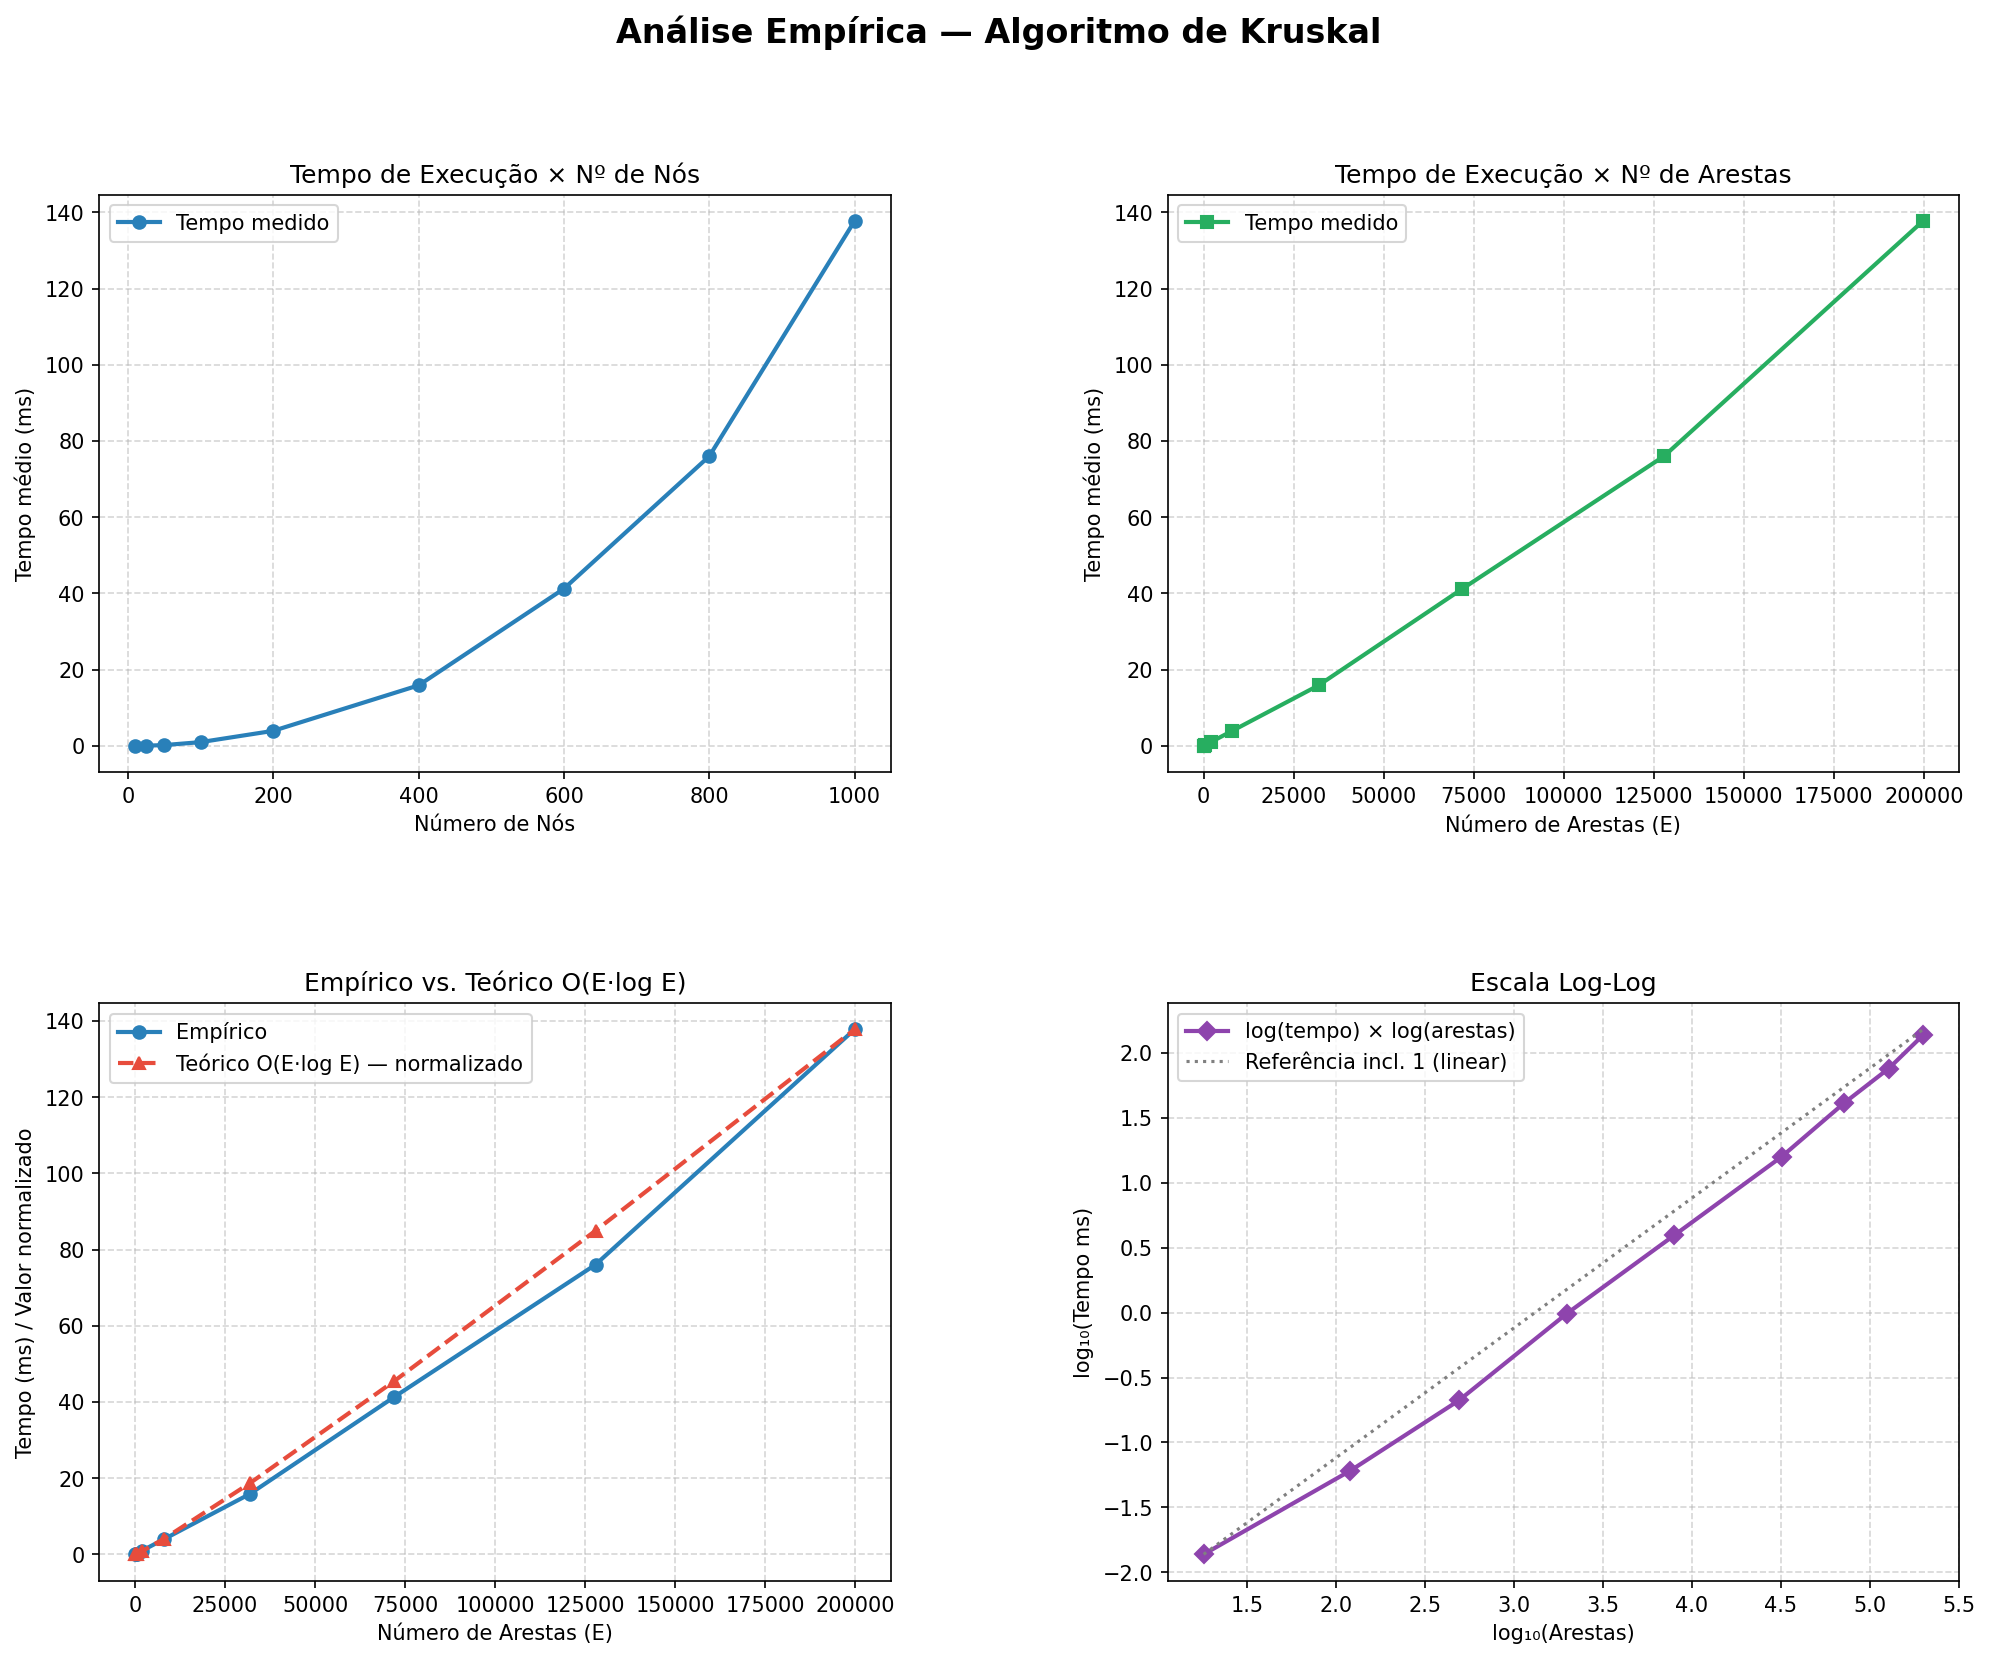
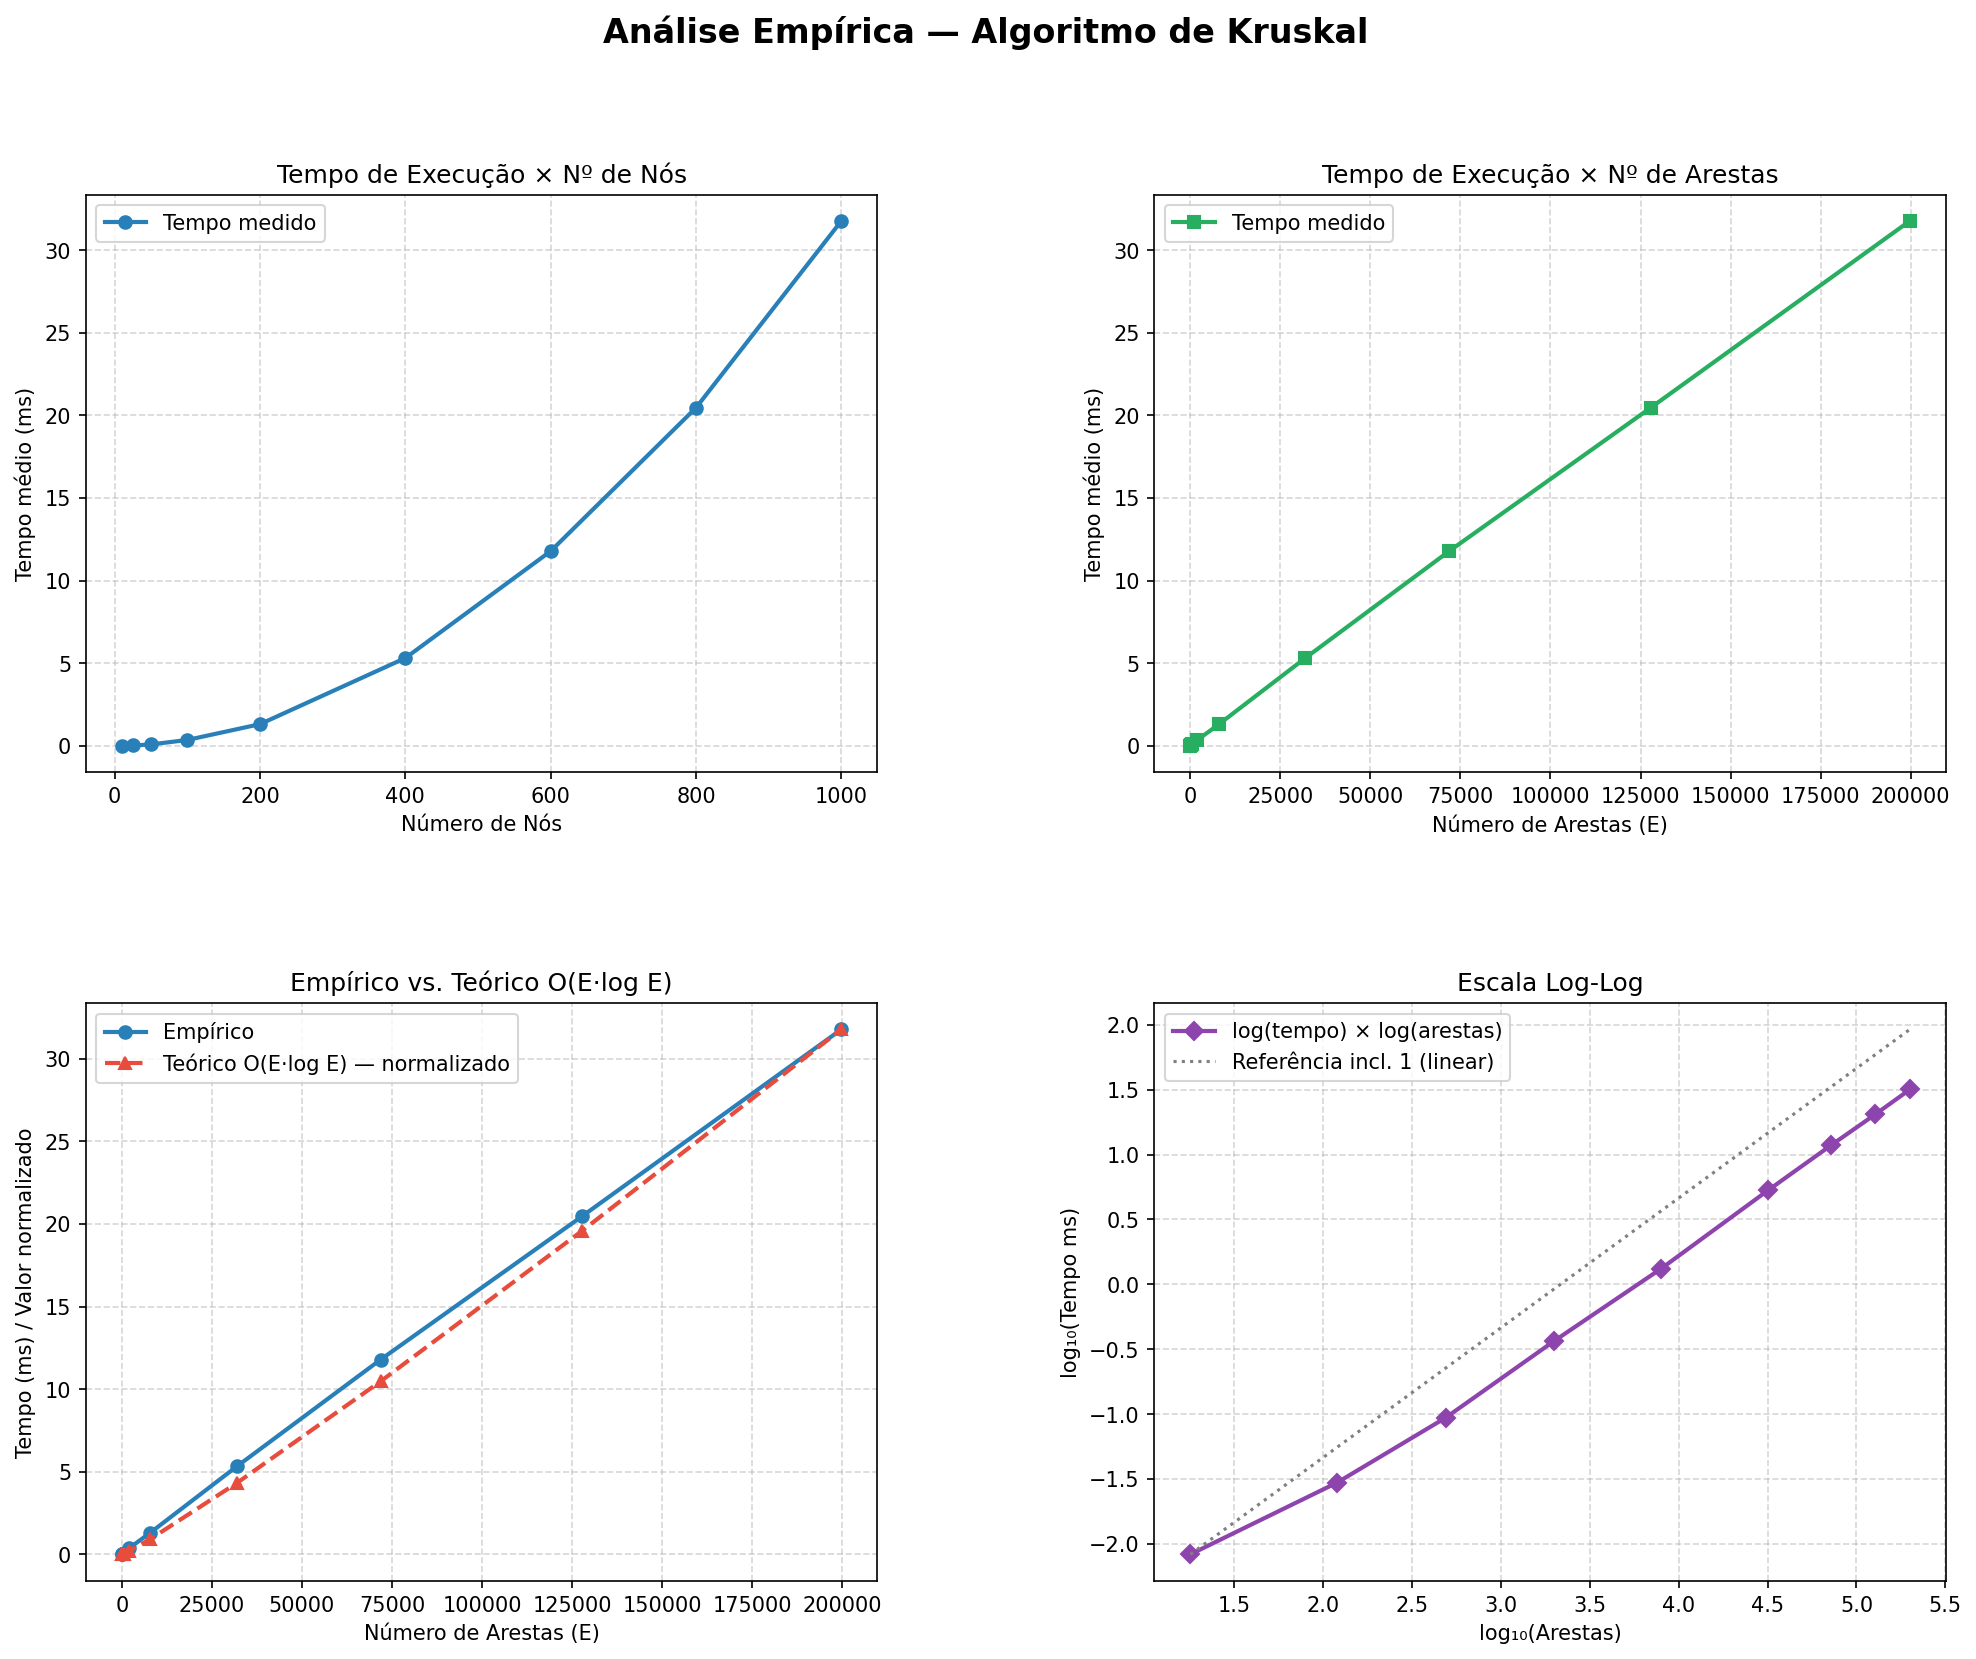
quase la

diff --git a/VA/Kruskal.py b/VA/Kruskal.py
@@ -1,0 +1,66 @@
+class Grafo:
+    def __init__(self, tamanho):
+        self.tamanho = tamanho
+        self.conexoes = []
+        self.nos = [""] * tamanho
+
+    def ConectarNos(self, a, b, peso):
+        self.conexoes.append((a, b, peso))
+
+    def nomearNo(self, no, nome):
+        if no >= 0 and no < self.tamanho:
+            self.nos[no] = nome
+
+    # --- MÉTODOS AUXILIARES DO UNION-FIND (DSU) ---
+    def _find(self, pai, i):
+        """Busca com compressão de caminho."""
+        if pai[i] == i:
+            return i
+        pai[i] = self._find(pai, pai[i])
+        return pai[i]
+
+    def _union(self, pai, altura, x, y):
+        """União por rank/altura."""
+        raiz_x = self._find(pai, x)
+        raiz_y = self._find(pai, y)
+
+        if raiz_x != raiz_y:
+            if altura[raiz_x] < altura[raiz_y]:
+                pai[raiz_x] = raiz_y
+            elif altura[raiz_x] > altura[raiz_y]:
+                pai[raiz_y] = raiz_x
+            else:
+                pai[raiz_y] = raiz_x
+                altura[raiz_x] += 1
+            return True
+        return False
+
+    # --- MÉTODO PRINCIPAL ADAPTADO ---
+    def Kruskal(self):
+        """
+        Retorna a AGM usando a lógica eficiente de conjuntos disjuntos.
+        """
+        resultado_mst = []
+
+        # 1. Ordenar arestas pelo peso (terceiro elemento da tupla: item[2])
+        self.conexoes.sort(key=lambda item: item[2])
+
+        # 2. Inicializar estruturas para o Union-Find
+        pai = list(range(self.tamanho))
+        altura = [0] * self.tamanho
+
+        # 3. Iterar pelas arestas ordenadas
+        for u, v, peso in self.conexoes:
+            # Tenta unir os nós. Se retornar True, não havia ciclo.
+            if self._union(pai, altura, u, v):
+                resultado_mst.append((u, v, peso))
+
+                # Se já pegamos arestas suficientes (V-1), podemos parar
+                if len(resultado_mst) == self.tamanho - 1:
+                    break
+
+        return resultado_mst
+
+    def PrintarGrafo(self):
+        print("Nomes dos nós:", self.nos)
+        print("Conexões (u, v, peso):", self.conexoes)